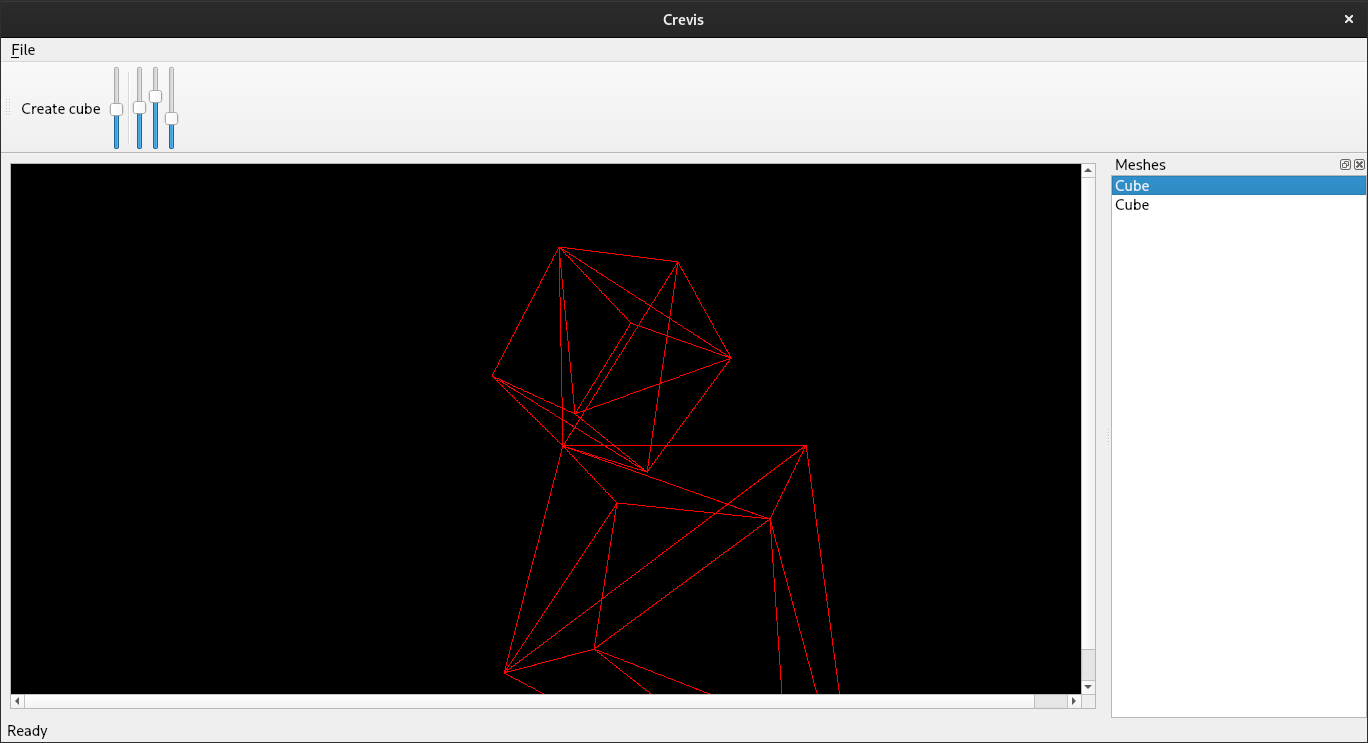
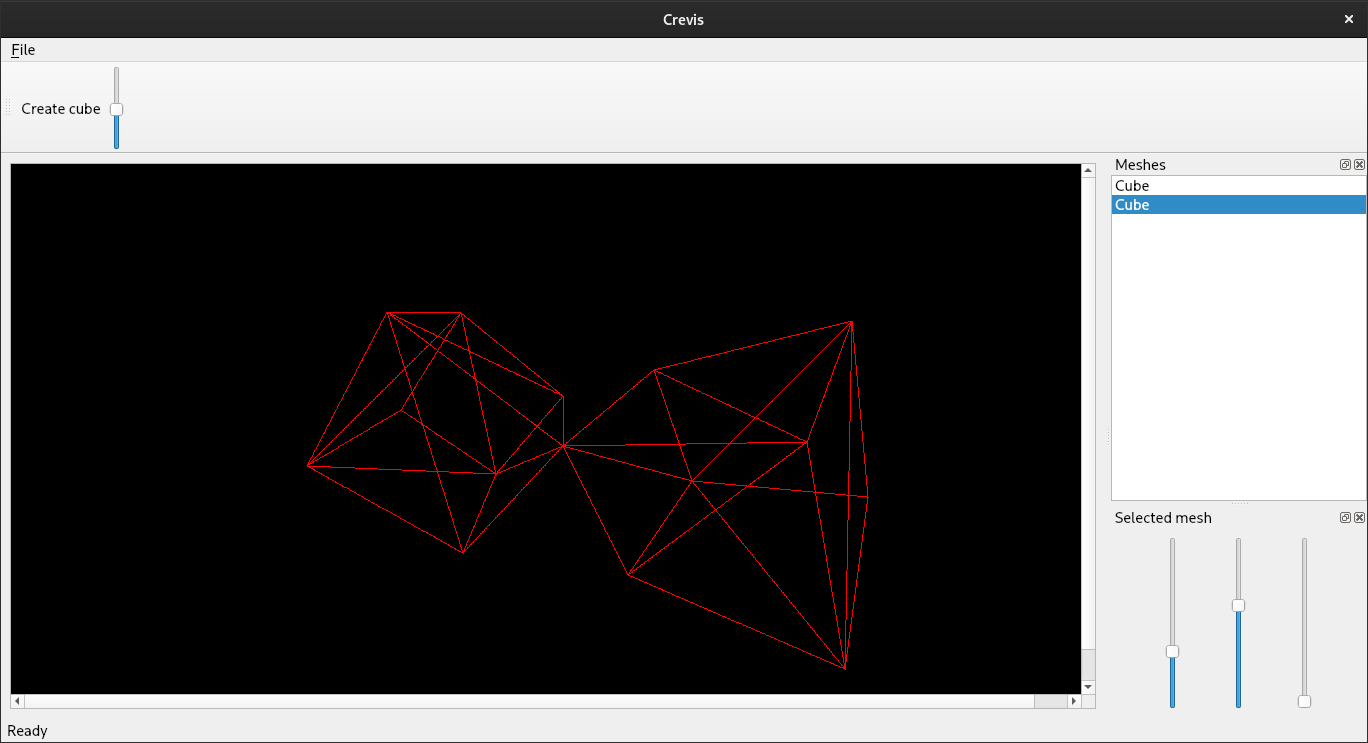
Created widget for changing properties of selected mesh

diff --git a/src/gui/window.cpp b/src/gui/window.cpp
@@ -1,6 +1,8 @@
 #include "gui/canvas.hpp"
 #include "gui/meshesList.hpp"
+#include "gui/meshProperties.hpp"
 #include "gui/window.hpp"
+#include "renderer/mesh.hpp"
 #include "renderer/renderer.hpp"
 
 #include <QAction>
@@ -33,9 +35,18 @@ Window::Window(QWidget* parent) : QMainWindow(parent), renderer(new Renderer)
     QDockWidget* meshesListWidgetContainer = new QDockWidget(tr("Meshes"), this);
     MeshesList* meshesListWidget = new MeshesList;
     connect(renderer, &Renderer::addedMesh, meshesListWidget, &MeshesList::addMesh);
-    connect(meshesListWidget, &MeshesList::selectedMesh, renderer, &Renderer::setSelectedMesh);
     meshesListWidgetContainer->setWidget(meshesListWidget);
     addDockWidget(Qt::RightDockWidgetArea, meshesListWidgetContainer);
+
+    // create a widget for setting properties of selectedMesh
+    QDockWidget* selectedMeshPropertiesContainer = new QDockWidget(tr("Selected mesh"), this);
+    MeshProperties* selectedMeshProperties = new MeshProperties;
+    selectedMeshPropertiesContainer->setWidget(selectedMeshProperties);
+    selectedMeshPropertiesContainer->widget()->hide();
+    addDockWidget(Qt::RightDockWidgetArea, selectedMeshPropertiesContainer);
+
+    connect(meshesListWidget, &MeshesList::selectedMesh, selectedMeshProperties, &MeshProperties::setMesh);
+
 
     showStatus("Ready");
 }
@@ -63,37 +74,6 @@ void Window::createToolbar()
     connect(focalLenSlider, &QSlider::valueChanged, renderer, &Renderer::setFocalLen);
     connect(renderer, &Renderer::focalLenChanged, focalLenSlider, &QSlider::setValue);
     toolbar->addWidget(focalLenSlider);
-
-
-    toolbar->addSeparator();
-
-
-    // slider for changing X rotation of selected mesh
-    QSlider* rotXSlider = new QSlider;
-    rotXSlider->setMinimum(0);
-    rotXSlider->setMaximum(314);
-    rotXSlider->setTickInterval(1);
-    rotXSlider->setValue(0);
-    connect(rotXSlider, &QSlider::valueChanged, renderer, &Renderer::setXRotOfSelectedMesh);
-    toolbar->addWidget(rotXSlider);
-
-    // slider for changing Y rotation of selected mesh
-    QSlider* rotYSlider = new QSlider;
-    rotYSlider->setMinimum(0);
-    rotYSlider->setMaximum(314);
-    rotYSlider->setTickInterval(1);
-    rotYSlider->setValue(0);
-    connect(rotYSlider, &QSlider::valueChanged, renderer, &Renderer::setYRotOfSelectedMesh);
-    toolbar->addWidget(rotYSlider);
-
-    // slider for changing Z rotation of selected mesh
-    QSlider* rotZSlider = new QSlider;
-    rotZSlider->setMinimum(0);
-    rotZSlider->setMaximum(314);
-    rotZSlider->setTickInterval(1);
-    rotZSlider->setValue(0);
-    connect(rotZSlider, &QSlider::valueChanged, renderer, &Renderer::setZRotOfSelectedMesh);
-    toolbar->addWidget(rotZSlider);
 }
 
 void Window::showStatus(char* msg)

diff --git a/src/gui/meshProperties.cpp b/src/gui/meshProperties.cpp
@@ -1,0 +1,66 @@
+#include "gui/meshProperties.hpp"
+#include "renderer/mesh.hpp"
+
+#include <QHBoxLayout>
+#include <QSlider>
+
+
+MeshProperties::MeshProperties(QWidget* parent) : QWidget(parent), mesh(nullptr)
+{
+    layout = new QHBoxLayout;
+    setLayout(layout);
+
+    // slider for changing X rotation of selected mesh
+    rotXSlider = new QSlider;
+    rotXSlider->setMinimum(0);
+    rotXSlider->setMaximum(360);
+    rotXSlider->setTickInterval(1);
+    rotXSlider->setValue(0);
+    layout->addWidget(rotXSlider);
+
+    // slider for changing Y rotation of selected mesh
+    rotYSlider = new QSlider;
+    rotYSlider->setMinimum(0);
+    rotYSlider->setMaximum(360);
+    rotYSlider->setTickInterval(1);
+    rotYSlider->setValue(0);
+    layout->addWidget(rotYSlider);
+
+    // slider for changing Z rotation of selected mesh
+    rotZSlider = new QSlider;
+    rotZSlider->setMinimum(0);
+    rotZSlider->setMaximum(360);
+    rotZSlider->setTickInterval(1);
+    rotZSlider->setValue(0);
+    layout->addWidget(rotZSlider);
+}
+
+void MeshProperties::setMesh(Mesh* newMesh)
+{
+    if (mesh != nullptr)
+    {
+        disconnect(rotXSlider, &QSlider::valueChanged, mesh, &Mesh::setXRotation);
+        disconnect(rotYSlider, &QSlider::valueChanged, mesh, &Mesh::setYRotation);
+        disconnect(rotZSlider, &QSlider::valueChanged, mesh, &Mesh::setZRotation);
+    }
+
+    if (newMesh != nullptr)
+    {
+        rotXSlider->setValue(newMesh->getAngleX());
+        rotYSlider->setValue(newMesh->getAngleY());
+        rotZSlider->setValue(newMesh->getAngleZ());
+
+        connect(rotXSlider, &QSlider::valueChanged, newMesh, &Mesh::setXRotation);
+        connect(rotYSlider, &QSlider::valueChanged, newMesh, &Mesh::setYRotation);
+        connect(rotZSlider, &QSlider::valueChanged, newMesh, &Mesh::setZRotation);
+
+        show();
+    }
+    else
+    {
+        hide();
+    }
+
+    mesh = newMesh;
+
+}

diff --git a/src/renderer/mesh.cpp b/src/renderer/mesh.cpp
@@ -1,3 +1,4 @@
+#include "math/trig.hpp"
 #include "renderer/mesh.hpp"
 #include "renderer/triangle.hpp"
 
@@ -27,9 +28,10 @@ void Mesh::scale(double factor)
     emit changed();
 }
 
-void Mesh::rotateX(double angle)
+void Mesh::setXRotation(double deg)
 {
-    double angleChange = angle - angleX;
+    double rad = degToRad(deg);
+    double angleChange = rad - angleX;
 
     for (unsigned int t = 0; t < triangles.size(); t++)
     {
@@ -38,14 +40,15 @@ void Mesh::rotateX(double angle)
         triangles[t].p3.rotateX(angleChange);
     }
 
-    angleX = angle;
+    angleX = rad;
 
     emit changed();
 }
 
-void Mesh::rotateY(double angle)
+void Mesh::setYRotation(double deg)
 {
-    double angleChange = angle - angleY;
+    double rad = degToRad(deg);
+    double angleChange = rad - angleY;
 
     for (unsigned int t = 0; t < triangles.size(); t++)
     {
@@ -54,14 +57,15 @@ void Mesh::rotateY(double angle)
         triangles[t].p3.rotateY(angleChange);
     }
 
-    angleY = angle;
+    angleY = rad;
 
     emit changed();
 }
 
-void Mesh::rotateZ(double angle)
+void Mesh::setZRotation(double deg)
 {
-    double angleChange = angle - angleZ;
+    double rad = degToRad(deg);
+    double angleChange = rad - angleZ;
 
     for (unsigned int t = 0; t < triangles.size(); t++)
     {
@@ -70,11 +74,25 @@ void Mesh::rotateZ(double angle)
         triangles[t].p3.rotateZ(angleChange);
     }
 
-    angleZ = angle;
+    angleZ = rad;
 
     emit changed();
 }
 
+double Mesh::getAngleX()
+{
+    return radToDeg(angleX);
+}
+
+double Mesh::getAngleY()
+{
+    return radToDeg(angleY);
+}
+
+double Mesh::getAngleZ()
+{
+    return radToDeg(angleZ);
+}
 
 Mesh* Mesh::cube()
 {

diff --git a/src/renderer/renderer.cpp b/src/renderer/renderer.cpp
@@ -43,7 +43,6 @@ void Renderer::addMesh(Mesh* mesh)
 void Renderer::createCube()
 {
     Mesh* cube = Mesh::cube();
-    cube->rotateZ(3.14 / 2);
     addMesh(cube);
 }
 
@@ -53,38 +52,6 @@ void Renderer::setFocalLen(double newFocalLen)
     focalLen = newFocalLen / 200;
     render();
 }
-
-void Renderer::setSelectedMesh(Mesh* mesh)
-{
-    std::cout << "Set selected mesh to " << mesh->name << std::endl;
-    selectedMesh = mesh;
-}
-
-
-void Renderer::setXRotOfSelectedMesh(double angle)
-{
-    if (selectedMesh != nullptr)
-    {
-        selectedMesh->rotateX(angle / 100);
-    }
-}
-
-void Renderer::setYRotOfSelectedMesh(double angle)
-{
-    if (selectedMesh != nullptr)
-    {
-        selectedMesh->rotateY(angle / 100);
-    }
-}
-
-void Renderer::setZRotOfSelectedMesh(double angle)
-{
-    if (selectedMesh != nullptr)
-    {
-        selectedMesh->rotateZ(angle / 100);
-    }
-}
-
 
 void Renderer::drawLine(Vec2d p1, Vec2d p2)
 {

diff --git a/include/renderer/mesh.hpp b/include/renderer/mesh.hpp
@@ -20,9 +20,10 @@ class Mesh : public QObject
 
         void addTriangle(Triangle triangle);
         void scale(double factor);
-        void rotateX(double angle);
-        void rotateY(double angle);
-        void rotateZ(double angle);
+
+        double getAngleX(void); // returns x rotation in degrees
+        double getAngleY(void); // returns y rotation in degrees
+        double getAngleZ(void); // returns z rotation in degrees
         
         static Mesh* cube(void);
 
@@ -33,6 +34,11 @@ class Mesh : public QObject
 
     signals:
         void changed(void);
+
+    public slots:
+        void setXRotation(double deg);
+        void setYRotation(double deg);
+        void setZRotation(double deg);
 };
 
 

diff --git a/include/gui/meshProperties.hpp b/include/gui/meshProperties.hpp
@@ -1,0 +1,31 @@
+#ifndef MESH_PROPERTIES_H
+#define MESH_PROPERTIES_H
+
+
+#include "renderer/mesh.hpp"
+
+#include <QHBoxLayout>
+#include <QSlider>
+#include <QWidget>
+
+
+class MeshProperties : public QWidget
+{
+    Q_OBJECT
+
+    public:
+        explicit MeshProperties(QWidget* parent = 0);
+
+    private:
+        QHBoxLayout* layout;
+        QSlider* rotXSlider;
+        QSlider* rotYSlider;
+        QSlider* rotZSlider;
+
+        Mesh* mesh;
+
+    public slots:
+        void setMesh(Mesh* newMesh);
+};
+
+#endif // MESH_PROPERTIES_H

diff --git a/include/renderer/renderer.hpp b/include/renderer/renderer.hpp
@@ -38,11 +38,6 @@ class Renderer : public QObject
         void setSize(int newWidth, int newHeight);
         void createCube(void);
         void setFocalLen(double newFocalLen);
-        void setSelectedMesh(Mesh* mesh);
-
-        void setXRotOfSelectedMesh(double angle);
-        void setYRotOfSelectedMesh(double angle);
-        void setZRotOfSelectedMesh(double angle);
 
         void render();
 

diff --git a/src/math/trig.cpp b/src/math/trig.cpp
@@ -1,0 +1,14 @@
+#include "math/trig.hpp"
+
+
+const double PI = 3.14159265358979323846;
+
+double radToDeg(double rad)
+{
+    return 180 / PI * rad;
+}
+
+double degToRad(double deg)
+{
+    return PI / 180 * deg;
+}

diff --git a/src/gui/meshesListItem.cpp b/src/gui/meshesListItem.cpp
@@ -1,6 +1,7 @@
 #include "gui/meshesListItem.hpp"
 #include "renderer/mesh.hpp"
 
+
 MeshesListItem::MeshesListItem(Mesh* mesh) : mesh(mesh)
 {
     setText(mesh->name);

diff --git a/include/math/trig.hpp b/include/math/trig.hpp
@@ -1,0 +1,7 @@
+#ifndef MATH_TRIG_H
+#define MATH_TRIG_H
+
+double radToDeg(double rad);
+double degToRad(double deg);
+
+#endif // MATH_TRIG_H

diff --git a/include/gui/meshesListItem.hpp b/include/gui/meshesListItem.hpp
@@ -5,6 +5,7 @@
 
 #include <QListWidgetItem>
 
+
 class MeshesListItem : public QListWidgetItem
 {
     public:
